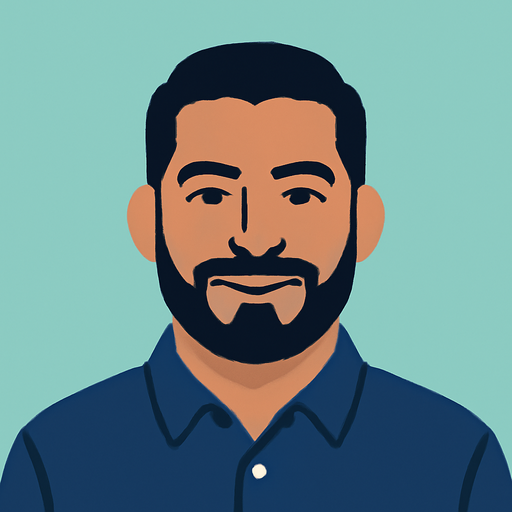
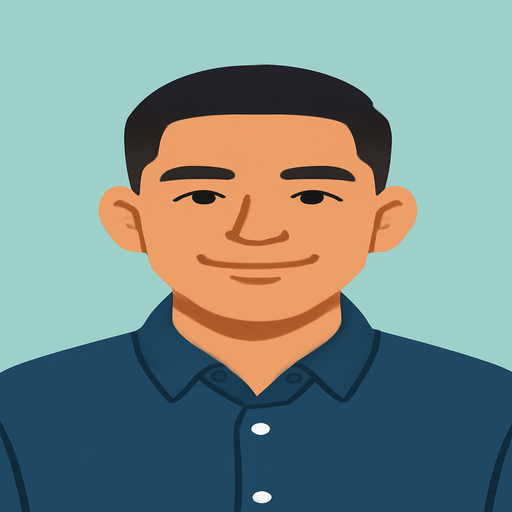
auto-commit for d2e53feb-4491-42d6-b517-59a140e9748c

diff --git a/frontend/src/pages/AboutPage.jsx b/frontend/src/pages/AboutPage.jsx
@@ -83,14 +83,25 @@ export default function AboutPage() {
         quote: "“A platform that finally treats service pros and families like people, not transactions.”",
         quoteAttr: "— Founding provider, Sallisaw OK",
         founderEyebrow: "Meet the founder",
-        founderName: "E. Hernandez",
-        founderRole: "Founder · Mexican-American tech entrepreneur",
+        founderName: "Eloy Hernández",
+        founderRole: "CEO & Founder · Getamano & Tiangix",
+        founderTagline: "Latino entrepreneur",
+        founderLead:
+          "One question has followed us since the very beginning: why is it so hard to find a trusted service, at a fair price, from someone who actually does great work?",
+        founderQuote:
+          "Millions of families across the US look for that every single day. And millions of workers — many of them Latino — offer it. The problem is they've never had the right place to find each other.",
         founderBioParas: [
-          "I'm passionate about technology and obsessed with one question: how do we give people — every person in the US, not just our Latino community — honest, affordable and functional services?",
-          "getamano is one answer. Tiangix, my sister project, is the other: a marketplace for Latino products and small Latino businesses that sell to every household in America, the same way getamano does for services.",
-          "If you believe quality work and honest trade deserve a real platform, you're in the right place. Welcome.",
+          "Getamano is our answer. A platform where the best service pros — plumbers, electricians, cleaners, landscapers — get the digital presence they deserve, and where any family in the US can find them, read real reviews, and hire with confidence.",
+          "We didn't build this only for the Latino community. We built it because honest work deserves a real platform — and because that work, in great part, is done by Latino hands that still don't have the visibility they deserve.",
+          "At tiangix.com we do the same with products: connecting small Latino businesses with every household in the US. Same mission, different path.",
+          "If you believe in honest commerce, in work done right, and in technology that brings people closer — you're in the right place.",
         ],
-        founderProjects: ["getamano · services", "Tiangix · Latino products"],
+        founderClose: "Welcome.",
+        founderLinks: [
+          { label: "getamano.com", url: "https://getamano.com", emoji: "🤝" },
+          { label: "tiangix.com", url: "https://tiangix.com", emoji: "📦" },
+        ],
+        founderTrust: "🫂 Latino-founded · Serving all of America",
         ctaTitle: "Ready to experience it?",
         ctaSub: "Whether you need a pro or are one, getamano is open to you.",
         ctaFind: "Find a pro near me",
@@ -144,14 +155,25 @@ export default function AboutPage() {
         quote: "“Una plataforma que por fin trata a los pros y a las familias como personas, no como transacciones.”",
         quoteAttr: "— Proveedor fundador, Sallisaw OK",
         founderEyebrow: "Conoce al fundador",
-        founderName: "E. Hernández",
-        founderRole: "Fundador · Emprendedor tecnológico mexicano-americano",
+        founderName: "Eloy Hernández",
+        founderRole: "CEO & Founder · Getamano & Tiangix",
+        founderTagline: "Emprendedor latino",
+        founderLead:
+          "Hay una pregunta que nos ha perseguido desde el principio: ¿por qué es tan difícil encontrar un servicio de confianza, a un precio justo, de alguien que de verdad hace bien su trabajo?",
+        founderQuote:
+          "Millones de familias en USA buscan eso mismo todos los días. Y millones de trabajadores — muchos de ellos latinos — lo ofrecen. El problema es que nunca han tenido el lugar correcto para encontrarse.",
         founderBioParas: [
-          "Soy apasionado por la tecnología y obsesionado con una pregunta: ¿cómo le damos a la gente — a toda persona en USA, no solo a nuestra comunidad latina — servicios honestos, económicos y funcionales?",
-          "getamano es una respuesta. Tiangix, mi proyecto hermano, es la otra: un marketplace de productos latinos y pequeños negocios latinos que venden a cada hogar en USA, igual que getamano lo hace con servicios.",
-          "Si crees que el trabajo de calidad y el comercio honesto merecen una plataforma real, estás en el lugar correcto. Bienvenido.",
+          "Getamano es nuestra respuesta. Una plataforma donde los mejores proveedores de servicios — plomeros, electricistas, limpiadores, jardineros — tienen la presencia digital que merecen, y donde cualquier familia en USA puede encontrarlos, leer sus reseñas, y contratarlos con confianza.",
+          "No construimos esto solo para la comunidad latina. Lo construimos porque el trabajo honesto merece una plataforma real — y porque ese trabajo, en gran parte, lo hacen manos latinas que todavía no tienen la visibilidad que merecen.",
+          "En tiangix.com hacemos lo mismo con productos: conectamos pequeños negocios latinos con cada hogar en USA. Misma misión, distinto camino.",
+          "Si crees en el comercio honesto, en el trabajo bien hecho, y en que la tecnología puede acercar a las personas — estás en el lugar correcto.",
         ],
-        founderProjects: ["getamano · servicios", "Tiangix · productos latinos"],
+        founderClose: "Bienvenido.",
+        founderLinks: [
+          { label: "getamano.com", url: "https://getamano.com", emoji: "🤝" },
+          { label: "tiangix.com", url: "https://tiangix.com", emoji: "📦" },
+        ],
+        founderTrust: "🫂 Latino-founded · Serving all of America",
         ctaTitle: "¿Listo para experimentarlo?",
         ctaSub: "Necesites un pro o lo seas tú, getamano está abierto para ti.",
         ctaFind: "Buscar un profesional",
@@ -308,14 +330,30 @@ export default function AboutPage() {
                 <p className="mt-1 text-sm font-semibold" style={{ color: "#025F67" }} data-testid="about-founder-role">
                   {c.founderRole}
                 </p>
+                <p className="mt-0.5 text-[11px] font-bold uppercase tracking-[1.2px] text-slate-400" data-testid="about-founder-tagline">
+                  {c.founderTagline}
+                </p>
 
-                <div className="mt-4 space-y-3">
+                {/* Lead question */}
+                <p className="mt-5 text-base md:text-[17px] text-slate-700 leading-relaxed" data-testid="about-founder-lead">
+                  {c.founderLead}
+                </p>
+
+                {/* Pull quote */}
+                <blockquote
+                  className="mt-5 pl-4 italic text-slate-800 text-[15px] md:text-base leading-relaxed"
+                  style={{ borderLeft: "3px solid #F97316" }}
+                  data-testid="about-founder-quote"
+                >
+                  "{c.founderQuote}"
+                </blockquote>
+
+                {/* Bio paragraphs */}
+                <div className="mt-5 space-y-3">
                   {c.founderBioParas.map((p, i) => (
                     <p
                       key={i}
-                      className={i === c.founderBioParas.length - 1
-                        ? "text-base font-semibold text-slate-900 leading-relaxed"
-                        : "text-base text-slate-700 leading-relaxed"}
+                      className="text-base text-slate-700 leading-relaxed"
                       data-testid={`about-founder-bio-${i}`}
                     >
                       {p}
@@ -323,19 +361,37 @@ export default function AboutPage() {
                   ))}
                 </div>
 
-                {/* Project badges */}
-                <div className="mt-5 flex flex-wrap gap-2" data-testid="about-founder-projects">
-                  {c.founderProjects.map((proj, i) => (
-                    <span
-                      key={proj}
-                      className="inline-flex items-center gap-1.5 px-3 py-1.5 rounded-full text-[12px] font-bold"
+                {/* Welcome close */}
+                <p className="mt-4 text-xl font-extrabold" style={{ color: "#025F67" }} data-testid="about-founder-close">
+                  {c.founderClose}
+                </p>
+
+                {/* Cross-project links */}
+                <div className="mt-5 flex flex-wrap gap-2" data-testid="about-founder-links">
+                  {c.founderLinks.map((link, i) => (
+                    <a
+                      key={link.url}
+                      href={link.url}
+                      target="_blank"
+                      rel="noopener noreferrer"
+                      className="inline-flex items-center gap-1.5 px-3.5 py-2 rounded-full text-[13px] font-bold transition hover:-translate-y-0.5 hover:shadow-md"
                       style={i === 0
                         ? { background: "#025F67", color: "#FFFFFF", boxShadow: "0 4px 12px rgba(2,95,103,0.25)" }
                         : { background: "#FEF3C7", color: "#92400E", border: "1.5px solid #F59E0B" }}
+                      data-testid={`about-founder-link-${i}`}
                     >
-                      {i === 0 ? "🤝" : "🛍"} {proj}
-                    </span>
+                      <span aria-hidden="true">{link.emoji}</span> {link.label}
+                    </a>
                   ))}
+                </div>
+
+                {/* Trust pill */}
+                <div
+                  className="mt-4 inline-flex items-center gap-1.5 px-3 py-1.5 rounded-full text-[11px] font-semibold"
+                  style={{ background: "#EFF9F7", color: "#025F67", border: "1px solid #5DCAA5" }}
+                  data-testid="about-founder-trust"
+                >
+                  {c.founderTrust}
                 </div>
               </div>
             </div>

diff --git a/backend/scripts/generate_founder_avatar.py b/backend/scripts/generate_founder_avatar.py
@@ -23,16 +23,17 @@ load_dotenv(BACKEND_DIR / ".env")
 
 OUT_DIR = Path("/app/frontend/public/avatars")
 OUT_DIR.mkdir(parents=True, exist_ok=True)
-OUT_FILE = OUT_DIR / "founder-e-hernandez.png"
+OUT_FILE = Path("/app/frontend/public/avatars/founder-e-hernandez.png")
 
 PROMPT = (
-    "A flat 2D vector portrait illustration of a Mexican-American tech "
-    "entrepreneur in his mid-30s, light brown skin (moreno claro), Mexican "
-    "facial features with strong jawline and friendly warm eyes, short "
-    "well-groomed dark hair, neatly trimmed dark beard, wearing a smart "
-    "casual navy button-up shirt. Shown from the chest up, looking at the "
-    "viewer with a confident yet approachable smile that conveys passion "
-    "for technology and community service. "
+    "A flat 2D vector portrait illustration of a young Mexican-American tech "
+    "entrepreneur in his mid-20s (around 25 years old), light brown skin "
+    "(moreno claro), Mexican facial features with warm friendly eyes, short "
+    "neat dark hair with a modern fade, clean-shaven smooth face (NO beard, "
+    "NO mustache, NO facial hair at all), wearing a smart casual navy "
+    "button-up shirt. Shown from the chest up, looking at the viewer with a "
+    "confident yet approachable smile that conveys youthful passion for "
+    "technology and entrepreneurship. "
     "Solid background color: soft teal #B7D6D8. "
     "Style: minimalist modern flat illustration, soft rounded shapes, "
     "gentle clean line work, thick rounded strokes, no shading gradients "

diff --git a/memory/PRD.md b/memory/PRD.md
@@ -2490,7 +2490,7 @@ The Sprint A "🔥 ¡Te falta 1!" pulsing badge used `transform: scale(1.06)` in
   3. "Why getamano exists" 4-paragraph origin story narrative.
   4. "What we stand for" — 4 value cards (Verified always · Real reviews · Bilingual by design · Pros first, then platform).
   5. Pull quote testimonial — "A platform that finally treats service pros and families like people, not transactions."
-  6. **Founder section** (`about-founder`) — AI-generated portrait of E. Hernandez (founder, Mexican-American tech entrepreneur), Mexican flag badge, role, 3-paragraph bio in his voice, and 2 project pills (`getamano · services` + `Tiangix · Latino products`). Portrait generated via OpenAI gpt-image-1 (script: `backend/scripts/generate_founder_avatar.py`), saved 512×512 to `/avatars/founder-e-hernandez.png` (234KB).
+  6. **Founder section** (`about-founder`) — AI-generated portrait of **Eloy Hernández** (CEO & Founder of Getamano & Tiangix, Latino entrepreneur), young (mid-20s, clean-shaven), Mexican flag badge. Layout: name + role + tagline → lead question → pull-quote with orange left border → 4 bio paragraphs (getamano mission, "not only for Latinos", Tiangix product marketplace, closing) → "Welcome." in teal → external links to getamano.com + tiangix.com → trust pill "🫂 Latino-founded · Serving all of America". Portrait via OpenAI gpt-image-1 (`backend/scripts/generate_founder_avatar.py`), 512×512.
   7. CTA block (teal gradient) — orange "Find a pro near me" + outline "Join as a provider".
 - Uses named `{ SeoHead }` import (component re-exported by name, not default).
 - All sections + values have stable `data-testid` for testing.
